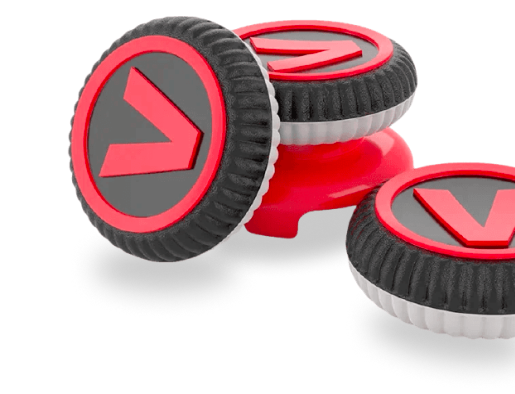
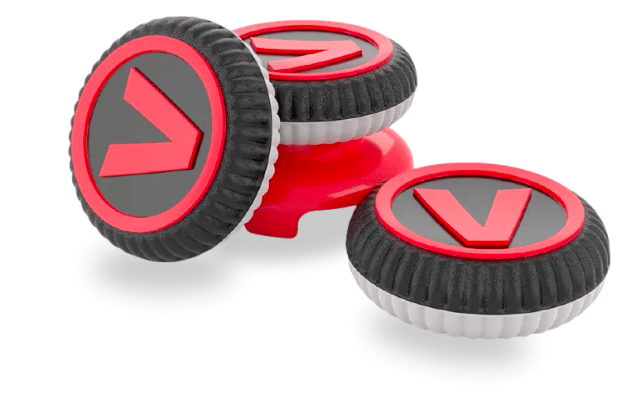
Improvement

diff --git a/src/components/YandexStation.vue b/src/components/YandexStation.vue
@@ -138,9 +138,9 @@
           </div>
         </div>
 
-        <div class="col-12 d-flex justify-content-between p-0">
+        <div class="col-12 d-flex justify-content-between p-0 overflow-none">
           <div><img class="__image-left" src="../assets/images/Home/nozzle.png" alt="#" width="774"></div>
-          <div><img class="__image-right" src="../assets/images/Home/nozzle-2.png" alt="#" width="515"></div>
+          <div class="__image-right-box"><img class="__image-right" src="../assets/images/Home/nozzle-2.png" alt="#" width="626"></div>
         </div>
       </div>
     </div>
@@ -248,6 +248,10 @@
   max-width: 532px;
 }
 
+.playstation-card__right .__image-right-box {
+  margin-right: -8%;
+}
+
 .playstation-card__left .__title, .playstation-card__right .__title {
   font-size: 40px;
   font-weight: 700;
@@ -335,6 +339,10 @@
   .playstation-card__right .yandex-station__button
    {
     padding-left: 23px;
+  }
+
+  .playstation-card__right .__image-right-box {
+    margin: 0;
   }
 }
 
